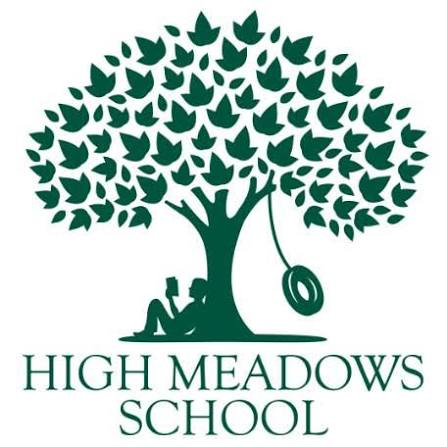
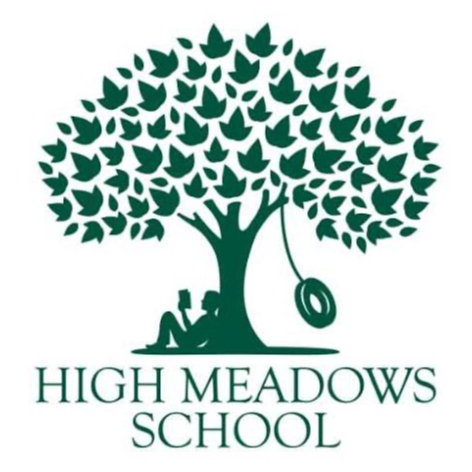
fix image trimming

diff --git a/src/data/experience.js b/src/data/experience.js
@@ -1,6 +1,6 @@
-import hmscImage from "../assets/hmsc.jpeg";
-import vipImage from "../assets/vip.jpeg";
-import targetImage from "../assets/target.jpeg";
+import hmscImage from "../assets/hmsc_wide.jpeg";
+import vipImage from "../assets/vip_wide.jpeg";
+import targetImage from "../assets/target_wide.jpeg";
 
 export const experience = [
    {
